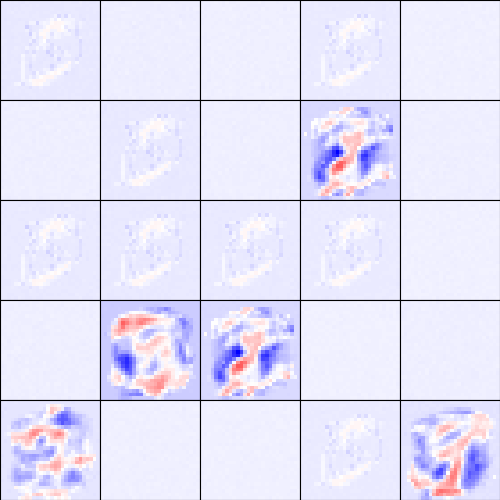
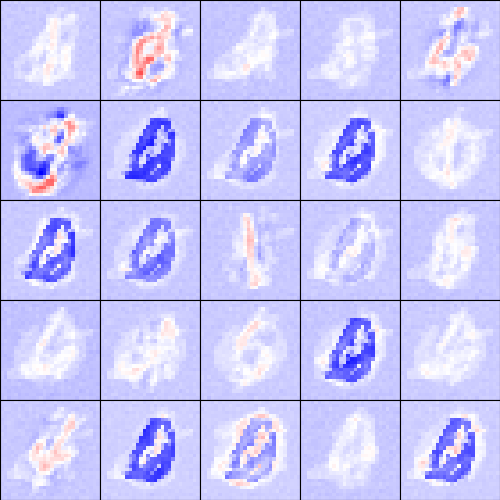
commits

diff --git a/lab4/rbm.py b/lab4/rbm.py
@@ -58,7 +58,7 @@ class RestrictedBoltzmannMachine():
         self.print_period = 5000
 
         self.rf = { # receptive-fields. Only applicable when visible layer is input data
-            "period" : 5000, # iteration period to visualize
+            "period" : 5, #5000, # iteration period to visualize
             "grid" : [5,5], # size of the grid
             "ids" : np.random.randint(0,self.ndim_hidden,25) # pick some random hidden units
             }
@@ -76,7 +76,7 @@ class RestrictedBoltzmannMachine():
         """
 
         print ("learning CD1")
-
+        visible_trainset = visible_trainset[:500]
         n_samples = visible_trainset.shape[0]
         n_minibatches = int(n_samples/self.batch_size + 0.5)
 
@@ -84,15 +84,17 @@ class RestrictedBoltzmannMachine():
         np.random.shuffle(minibatch_folds)
 
         for it in range(n_iterations):
+            print("Iterations", it)
             for fold_index in range(n_minibatches):
                 minibatch = visible_trainset[minibatch_folds == fold_index]
                 v_activations_0 = minibatch
+
                 h_probs_0, h_activations_0 = self.get_h_given_v(v_activations_0)
                 v_probs_1, v_activations_1 = self.get_v_given_h(h_activations_0)
                 h_probs_1, h_activations_1 = self.get_h_given_v(v_probs_1)
 
                 # print(v_activations_0.shape,h_activations_0.shape,v_probs_1.shape,h_probs_1.shape)
-                # self.update_params(v_activations_0,h_activations_0,v_probs_1,h_probs_1)
+                self.update_params(v_activations_0,h_activations_0,v_probs_1,h_probs_1)
                 # [TODO TASK 4.1] update the parameters using function 'update_params'
 
                 if it % self.rf["period"] == 0 and self.is_bottom:

diff --git a/lab4/run.py b/lab4/run.py
@@ -15,7 +15,7 @@ if __name__ == "__main__":
     print("\nStarting a Restricted Boltzmann Machine..")
     print(test_lbls.shape)
     rbm = RestrictedBoltzmannMachine(ndim_visible=image_size[0]*image_size[1],
-                                     ndim_hidden=200,
+                                     ndim_hidden=500,
                                      is_bottom=True,
                                      image_size=image_size,
                                      is_top=False,
